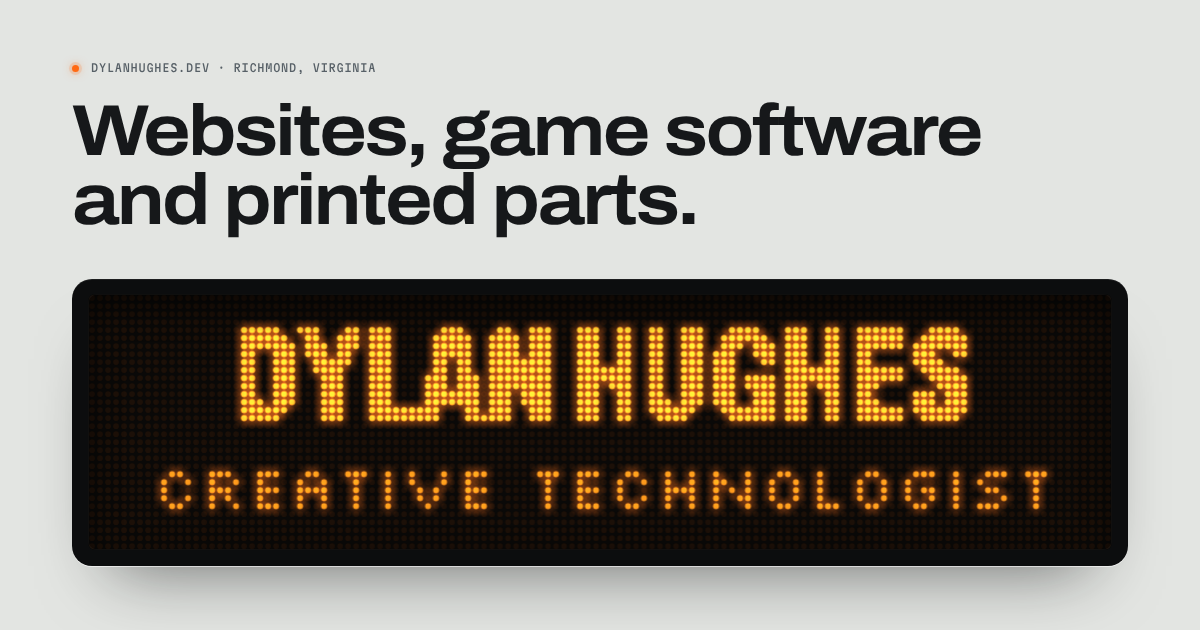
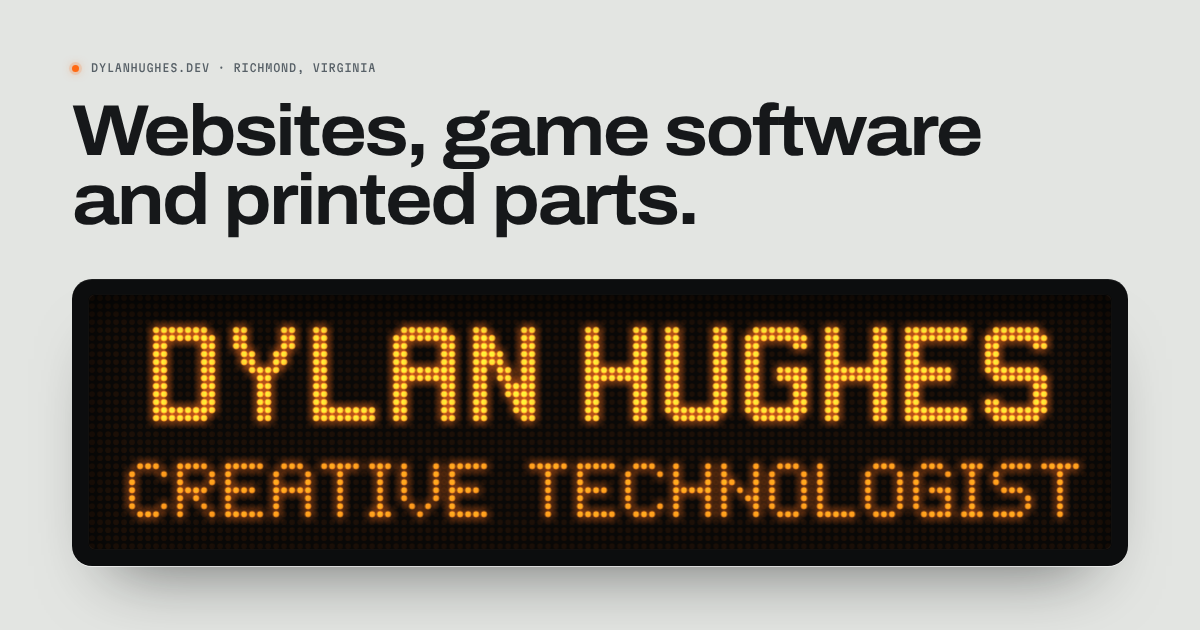
Hand-draw the dot-matrix display's lettering
The display's headline words were Archivo thresholded onto the dot grid,
which left uneven strokes and lumpy curves, and its small text was
Silkscreen. Both are now bitmap fonts drawn on the grid like real pinball
lettering: a 12-dot face with two-dot strokes and a classic 5x7 face,
defined as readable rows in js/dmd-glyphs.js. This removes the baking
tool and the Silkscreen files, and drops the arrow markers beside the
rolling words. Favicon and share image regenerated with the new lettering.

Claude-Session: https://claude.ai/code/session_01YP6uGPMfsV9kKyrg262rqo

Changed region(s): [[0.1233, 0.5127, 0.8942, 0.6937], [0.0925, 0.7238, 0.925, 0.8444]]

diff --git a/js/dmd-glyphs.js b/js/dmd-glyphs.js
@@ -1,2 +1,100 @@
-/* Generated by tools/bake-dmd-glyphs.mjs. Rows are hex bitmaps, left to right. */
-window.DMD_GLYPHS = {"small":{"0":{"w":6,"rows":["00","30","48","48","48","30","00"]},"1":{"w":5,"rows":["00","60","20","20","20","70","00"]},"2":{"w":6,"rows":["00","70","08","30","40","78","00"]},"3":{"w":6,"rows":["00","70","08","30","08","70","00"]},"4":{"w":6,"rows":["00","50","50","78","10","10","00"]},"5":{"w":6,"rows":["00","78","40","70","08","70","00"]},"6":{"w":6,"rows":["00","30","40","70","48","30","00"]},"7":{"w":6,"rows":["00","78","08","10","20","20","00"]},"8":{"w":6,"rows":["00","30","48","30","48","30","00"]},"9":{"w":6,"rows":["00","30","48","38","08","30","00"]}," ":{"w":4,"rows":["0","0","0","0","0","0","0"]},"A":{"w":6,"rows":["00","30","48","78","48","48","00"]},"B":{"w":6,"rows":["00","70","48","78","48","70","00"]},"C":{"w":6,"rows":["00","30","48","40","48","30","00"]},"D":{"w":6,"rows":["00","70","48","48","48","70","00"]},"E":{"w":5,"rows":["00","70","40","70","40","70","00"]},"F":{"w":5,"rows":["00","70","40","70","40","40","00"]},"G":{"w":6,"rows":["00","38","40","58","48","30","00"]},"H":{"w":6,"rows":["00","48","48","78","48","48","00"]},"I":{"w":3,"rows":["0","4","4","4","4","4","0"]},"J":{"w":6,"rows":["00","08","08","08","48","30","00"]},"K":{"w":6,"rows":["00","48","50","60","50","48","00"]},"L":{"w":5,"rows":["00","40","40","40","40","70","00"]},"M":{"w":7,"rows":["00","44","6c","54","44","44","00"]},"N":{"w":7,"rows":["00","44","64","54","4c","44","00"]},"O":{"w":6,"rows":["00","30","48","48","48","30","00"]},"P":{"w":6,"rows":["00","70","48","70","40","40","00"]},"Q":{"w":6,"rows":["00","30","48","48","48","30","08"]},"R":{"w":6,"rows":["00","70","48","70","50","48","00"]},"S":{"w":6,"rows":["00","38","40","30","08","70","00"]},"T":{"w":5,"rows":["00","70","20","20","20","20","00"]},"U":{"w":6,"rows":["00","48","48","48","48","30","00"]},"V":{"w":7,"rows":["00","44","44","28","28","10","00"]},"W":{"w":7,"rows":["00","44","54","54","54","28","00"]},"X":{"w":7,"rows":["00","44","28","10","28","44","00"]},"Y":{"w":7,"rows":["00","44","28","10","10","10","00"]},"Z":{"w":5,"rows":["00","70","10","20","40","70","00"]},".":{"w":3,"rows":["0","0","0","0","0","4","0"]},",":{"w":4,"rows":["0","0","0","0","0","2","4"]},":":{"w":3,"rows":["0","0","4","0","4","0","0"]},";":{"w":4,"rows":["0","0","2","0","2","4","0"]},"-":{"w":5,"rows":["00","00","00","70","00","00","00"]},"!":{"w":3,"rows":["0","4","4","4","0","4","0"]},"?":{"w":6,"rows":["00","70","08","30","00","20","00"]},"'":{"w":3,"rows":["0","4","4","0","0","0","0"]},"&":{"w":6,"rows":["10","38","40","30","40","38","10"]},"/":{"w":5,"rows":["00","10","10","20","40","40","00"]},"(":{"w":4,"rows":["0","2","4","4","4","2","0"]},")":{"w":4,"rows":["0","4","2","2","2","4","0"]},"+":{"w":7,"rows":["00","10","10","7c","10","10","00"]},"#":{"w":7,"rows":["00","28","7c","28","7c","28","00"]}},"big":{"404":{"w":21,"rows":["3070c0","30f8c0","34dcd0","6cdcd0","6dddb0","6dddb0","cdddb0","fddff8","ffdff8","7cddf8","0cf830","0c7830"]},"DYLAN HUGHES":{"w":91,"rows":["f9c6e070ce3999c78e67e3c","fccee0f9ee3999cfce67e7e","feeee0f9ee3999ceee67efe","ceece0f9ee3999dcee660e6","ce7ce0d9fe3999dc6e660f0","ce78e0d9fe3f99dc0fe7e7c","ce38e1ddfe3f99ddefe7e3e","ce38e1ddfe3b99ddeee701e","ce38e1fdde3999dcee660ee","ee38e1fdde399ddcee670ee","fc38ff8dce399f8fee67efe","f838ff8fce398f07ee67e7c"]},"WEBSITES":{"w":63,"rows":["e677e783cefefe78","ef77efe7eefefefc","ef77efefeefefcfc","6f660e7e6e38e0ec","6f660e6f0e38e0e0","6f67efc7ce38fcf8","7fe7efe3ee38fc7c","7fe70e71ee38e01e","7be60e7eee38e0ce","39c70e7eee38e0ce","39c7efefee38fefc","39c7efc7ce38fe78"]},"GAME SOFTWARE":{"w":105,"rows":["383c78e7e0f0f0fbff399e3e3f8","7e3c79e7e1f9f9ffff3b9e3f3f8","ee3e79e7e3f9ddfbfb3bbe3fbf0","c63e7de6039b9dc0e37bbe33b80","c63e7de603c39dc0e37b3633b80","c0767de7e1f38df8e3fb373bbf0","de767de7e0fb8df8e3ff373f3f0","ce777f67007b9df0e3ef773f380","c67f776603bb9dc0e1ef7f33380","e6ff776703bb9dc0e1ef7fb3b80","fee77767e3f9f9c0e1ce63b3bf8","7ae37667e1f0f1c0e1ce63b1bf8"]},"PRINTED PARTS":{"w":94,"rows":["f8f8ee67f7e781f0f1f1fcf0","fcfcee6ff7efe1fcf1fdfdf8","fefeef67e7efe1fcf1fdfdf8","ceceef61c60e71ddf9cc71d8","ceceef61c60e71ddf9cc71c0","ceeeefe1c7ee71ddf9dc71f0","fcfcefe1c7ee71fd99fc70f8","fcfcefe1c70e71f999f8703c","c0cceee1c60e71c3fddc719c","c0ceeee1c70ee1c3fddc719c","c0ceeee1c7efe1c39ddc71f8","c0c6ee61c7efc1c39dce70f0"]},"TILT":{"w":25,"rows":["fe663f8","ffe63f8","7ee63f8","18e60e0","18e60e0","18e60e0","18e60e0","18e60e0","18e60e0","18e70e0","18e7ee0","18e7ee0"]}}};
+/* Bitmap fonts for the dot-matrix display, drawn by hand on the dot grid, the way pinball displays
+   were lettered. "#" is a lit dot. SMALL is a 5 × 7 face; BIG is 12 dots tall with two-dot strokes. */
+window.DMD_FONTS = {
+  small: {
+    height: 7,
+    spacing: 1,
+    glyphs: {
+      ' ': ['...', '...', '...', '...', '...', '...', '...'],
+      A: ['.###.', '#...#', '#...#', '#####', '#...#', '#...#', '#...#'],
+      B: ['####.', '#...#', '#...#', '####.', '#...#', '#...#', '####.'],
+      C: ['.###.', '#...#', '#....', '#....', '#....', '#...#', '.###.'],
+      D: ['####.', '#...#', '#...#', '#...#', '#...#', '#...#', '####.'],
+      E: ['#####', '#....', '#....', '####.', '#....', '#....', '#####'],
+      F: ['#####', '#....', '#....', '####.', '#....', '#....', '#....'],
+      G: ['.###.', '#...#', '#....', '#.###', '#...#', '#...#', '.####'],
+      H: ['#...#', '#...#', '#...#', '#####', '#...#', '#...#', '#...#'],
+      I: ['###', '.#.', '.#.', '.#.', '.#.', '.#.', '###'],
+      J: ['..###', '...#.', '...#.', '...#.', '...#.', '#..#.', '.##..'],
+      K: ['#...#', '#..#.', '#.#..', '##...', '#.#..', '#..#.', '#...#'],
+      L: ['#....', '#....', '#....', '#....', '#....', '#....', '#####'],
+      M: ['#...#', '##.##', '#.#.#', '#.#.#', '#...#', '#...#', '#...#'],
+      N: ['#...#', '#...#', '##..#', '#.#.#', '#..##', '#...#', '#...#'],
+      O: ['.###.', '#...#', '#...#', '#...#', '#...#', '#...#', '.###.'],
+      P: ['####.', '#...#', '#...#', '####.', '#....', '#....', '#....'],
+      Q: ['.###.', '#...#', '#...#', '#...#', '#.#.#', '#..#.', '.##.#'],
+      R: ['####.', '#...#', '#...#', '####.', '#.#..', '#..#.', '#...#'],
+      S: ['.####', '#....', '#....', '.###.', '....#', '....#', '####.'],
+      T: ['#####', '..#..', '..#..', '..#..', '..#..', '..#..', '..#..'],
+      U: ['#...#', '#...#', '#...#', '#...#', '#...#', '#...#', '.###.'],
+      V: ['#...#', '#...#', '#...#', '#...#', '#...#', '.#.#.', '..#..'],
+      W: ['#...#', '#...#', '#...#', '#.#.#', '#.#.#', '#.#.#', '.#.#.'],
+      X: ['#...#', '#...#', '.#.#.', '..#..', '.#.#.', '#...#', '#...#'],
+      Y: ['#...#', '#...#', '.#.#.', '..#..', '..#..', '..#..', '..#..'],
+      Z: ['#####', '....#', '...#.', '..#..', '.#...', '#....', '#####'],
+      0: ['.###.', '#...#', '#..##', '#.#.#', '##..#', '#...#', '.###.'],
+      1: ['..#..', '.##..', '..#..', '..#..', '..#..', '..#..', '.###.'],
+      2: ['.###.', '#...#', '....#', '...#.', '..#..', '.#...', '#####'],
+      3: ['#####', '...#.', '..#..', '...#.', '....#', '#...#', '.###.'],
+      4: ['...#.', '..##.', '.#.#.', '#..#.', '#####', '...#.', '...#.'],
+      5: ['#####', '#....', '####.', '....#', '....#', '#...#', '.###.'],
+      6: ['..##.', '.#...', '#....', '####.', '#...#', '#...#', '.###.'],
+      7: ['#####', '....#', '...#.', '..#..', '.#...', '.#...', '.#...'],
+      8: ['.###.', '#...#', '#...#', '.###.', '#...#', '#...#', '.###.'],
+      9: ['.###.', '#...#', '#...#', '.####', '....#', '...#.', '.##..'],
+      '.': ['.', '.', '.', '.', '.', '.', '#'],
+      ',': ['..', '..', '..', '..', '..', '.#', '#.'],
+      ':': ['.', '.', '#', '.', '.', '#', '.'],
+      '-': ['....', '....', '....', '####', '....', '....', '....'],
+      '!': ['#', '#', '#', '#', '#', '.', '#'],
+      '?': ['.###.', '#...#', '....#', '...#.', '..#..', '.....', '..#..'],
+      "'": ['#', '#', '.', '.', '.', '.', '.'],
+      '/': ['....#', '...#.', '...#.', '..#..', '.#...', '.#...', '#....'],
+      '+': ['.....', '..#..', '..#..', '#####', '..#..', '..#..', '.....'],
+      '*': ['...', '...', '.#.', '###', '.#.', '...', '...'],
+    },
+  },
+  big: {
+    height: 12,
+    spacing: 2,
+    glyphs: {
+      ' ': ['..', '..', '..', '..', '..', '..', '..', '..', '..', '..', '..', '..'],
+      A: ['.######.', '########', '##....##', '##....##', '##....##', '########', '########', '##....##', '##....##', '##....##', '##....##', '##....##'],
+      B: ['#######.', '########', '##....##', '##....##', '##....##', '#######.', '#######.', '##....##', '##....##', '##....##', '########', '#######.'],
+      C: ['.######.', '########', '##....##', '##......', '##......', '##......', '##......', '##......', '##......', '##....##', '########', '.######.'],
+      D: ['#######.', '########', '##....##', '##....##', '##....##', '##....##', '##....##', '##....##', '##....##', '##....##', '########', '#######.'],
+      E: ['########', '########', '##......', '##......', '##......', '######..', '######..', '##......', '##......', '##......', '########', '########'],
+      F: ['########', '########', '##......', '##......', '##......', '######..', '######..', '##......', '##......', '##......', '##......', '##......'],
+      G: ['.######.', '########', '##....##', '##......', '##......', '##..####', '##..####', '##....##', '##....##', '##....##', '########', '.######.'],
+      H: ['##....##', '##....##', '##....##', '##....##', '##....##', '########', '########', '##....##', '##....##', '##....##', '##....##', '##....##'],
+      I: ['##', '##', '##', '##', '##', '##', '##', '##', '##', '##', '##', '##'],
+      J: ['......##', '......##', '......##', '......##', '......##', '......##', '......##', '......##', '##....##', '##....##', '########', '.######.'],
+      K: ['##....##', '##...###', '##..###.', '##.###..', '#####...', '####....', '####....', '#####...', '##.###..', '##..###.', '##...###', '##....##'],
+      L: ['##......', '##......', '##......', '##......', '##......', '##......', '##......', '##......', '##......', '##......', '########', '########'],
+      M: ['##....##', '###..###', '########', '##.##.##', '##.##.##', '##....##', '##....##', '##....##', '##....##', '##....##', '##....##', '##....##'],
+      N: ['##....##', '###...##', '###...##', '####..##', '####..##', '##.##.##', '##.##.##', '##..####', '##..####', '##...###', '##...###', '##....##'],
+      O: ['.######.', '########', '##....##', '##....##', '##....##', '##....##', '##....##', '##....##', '##....##', '##....##', '########', '.######.'],
+      P: ['#######.', '########', '##....##', '##....##', '##....##', '########', '#######.', '##......', '##......', '##......', '##......', '##......'],
+      Q: ['.######.', '########', '##....##', '##....##', '##....##', '##....##', '##....##', '##.##.##', '##..####', '##...###', '########', '.#######'],
+      R: ['#######.', '########', '##....##', '##....##', '##....##', '########', '#######.', '##.###..', '##..###.', '##...###', '##....##', '##....##'],
+      S: ['.######.', '########', '##....##', '##......', '##......', '#######.', '.#######', '......##', '......##', '##....##', '########', '.######.'],
+      T: ['########', '########', '...##...', '...##...', '...##...', '...##...', '...##...', '...##...', '...##...', '...##...', '...##...', '...##...'],
+      U: ['##....##', '##....##', '##....##', '##....##', '##....##', '##....##', '##....##', '##....##', '##....##', '##....##', '########', '.######.'],
+      V: ['##....##', '##....##', '##....##', '##....##', '##....##', '##....##', '##....##', '.##..##.', '.##..##.', '..####..', '..####..', '...##...'],
+      W: ['##....##', '##....##', '##....##', '##....##', '##....##', '##....##', '##....##', '##.##.##', '##.##.##', '########', '###..###', '##....##'],
+      X: ['##....##', '##....##', '.##..##.', '.##..##.', '..####..', '...##...', '...##...', '..####..', '.##..##.', '.##..##.', '##....##', '##....##'],
+      Y: ['##....##', '##....##', '##....##', '.##..##.', '.##..##.', '..####..', '...##...', '...##...', '...##...', '...##...', '...##...', '...##...'],
+      Z: ['########', '########', '......##', '.....##.', '....##..', '...##...', '..##....', '.##.....', '##......', '##......', '########', '########'],
+      0: ['.######.', '########', '##....##', '##...###', '##..####', '##.##.##', '##.##.##', '####..##', '###...##', '##....##', '########', '.######.'],
+      1: ['..##', '.###', '####', '..##', '..##', '..##', '..##', '..##', '..##', '..##', '..##', '..##'],
+      2: ['.######.', '########', '##....##', '......##', '......##', '.#######', '#######.', '##......', '##......', '##......', '########', '########'],
+      3: ['.######.', '########', '##....##', '......##', '......##', '..#####.', '..#####.', '......##', '......##', '##....##', '########', '.######.'],
+      4: ['##....##', '##....##', '##....##', '##....##', '##....##', '########', '########', '......##', '......##', '......##', '......##', '......##'],
+      5: ['########', '########', '##......', '##......', '##......', '#######.', '########', '......##', '......##', '##....##', '########', '.######.'],
+      6: ['.######.', '########', '##....##', '##......', '##......', '#######.', '########', '##....##', '##....##', '##....##', '########', '.######.'],
+      7: ['########', '########', '......##', '......##', '.....##.', '....##..', '...##...', '...##...', '...##...', '...##...', '...##...', '...##...'],
+      8: ['.######.', '########', '##....##', '##....##', '##....##', '.######.', '.######.', '##....##', '##....##', '##....##', '########', '.######.'],
+      9: ['.######.', '########', '##....##', '##....##', '##....##', '########', '.#######', '......##', '......##', '##....##', '########', '.######.'],
+    },
+  },
+};

diff --git a/js/dmd.js b/js/dmd.js
@@ -3,30 +3,27 @@
 (() => {
   'use strict';
   const COLS = 128, ROWS = 32, N = COLS * ROWS;
-  const G = window.DMD_GLYPHS;
+  const FONTS = window.DMD_FONTS;
 
-  // Bitmaps ------------------------------------------------------------------
-  const decodeRows = (rows, w) => rows.map(hex => {
-    const bits = [...hex].map(c => parseInt(c, 16).toString(2).padStart(4, '0')).join('');
-    return Uint8Array.from(bits.slice(0, w), b => (b === '1' ? 1 : 0));
-  });
-  const bigCache = {};
-  const big = word => bigCache[word] || (bigCache[word] = { w: G.big[word].w, h: G.big[word].rows.length, px: decodeRows(G.big[word].rows, G.big[word].w) });
-  const smallGlyph = {};
-  for (const ch in G.small) smallGlyph[ch] = { w: G.small[ch].w, px: decodeRows(G.small[ch].rows, G.small[ch].w) };
-  const smallCache = {};
-  function small(text) {
-    if (smallCache[text]) return smallCache[text];
-    const glyphs = [...text.toUpperCase()].map(ch => smallGlyph[ch] || smallGlyph[' ']);
-    const w = Math.max(1, glyphs.reduce((sum, g) => sum + g.w, 0) - 1);
-    const px = Array.from({ length: 7 }, () => new Uint8Array(w));
+  // Text ------------------------------------------------------------------------
+  // Composes a string from a hand-drawn font into a bitmap: { w, h, px: rows of 0/1 }.
+  const textCache = {};
+  function text(str, fontName) {
+    const key = fontName + '|' + str;
+    if (textCache[key]) return textCache[key];
+    const font = FONTS[fontName];
+    const glyphs = [...str.toUpperCase()].map(ch => font.glyphs[ch] || font.glyphs[' ']);
+    const w = Math.max(1, glyphs.reduce((sum, g) => sum + g[0].length + font.spacing, 0) - font.spacing);
+    const px = Array.from({ length: font.height }, () => new Uint8Array(w));
     let x = 0;
     for (const g of glyphs) {
-      for (let y = 0; y < 7; y++) for (let i = 0; i < g.w && x + i < w; i++) if (g.px[y][i]) px[y][x + i] = 1;
-      x += g.w;
+      g.forEach((row, y) => { for (let i = 0; i < row.length; i++) if (row[i] === '#') px[y][x + i] = 1; });
+      x += g[0].length + font.spacing;
     }
-    return (smallCache[text] = { w, h: 7, px });
+    return (textCache[key] = { w, h: font.height, px });
   }
+  const big = str => text(str, 'big');
+  const small = str => text(str, 'small');
 
   // Drawing into a buffer -------------------------------------------------------
   const set = (buf, x, y, v) => {
@@ -87,7 +84,7 @@
         if (text) stamp(buf, small(text), center(role), 21, 0.78);
         if (typed > 0 && typed < 21 && Math.floor(t * 8) % 2) {
           const cx = center(role) + small(text).w + 2;
-          for (let y = 22; y < 27; y++) set(buf, cx, y, 0.6);
+          for (let y = 21; y < 28; y++) set(buf, cx, y, 0.6);
         }
       },
     },
@@ -109,9 +106,6 @@
         const clip = { top: 12, bottom: 28 };
         stamp(buf, big(words[step]), center(big(words[step])), 14 - offset, 1, clip);
         if (step + 1 < words.length) stamp(buf, big(words[step + 1]), center(big(words[step + 1])), 14 + pitch - offset, 1, clip);
-        const mark = 1 + Math.floor(t * 4) % 2 * 0.2;
-        set(buf, 3, 19, 0.5 * mark); set(buf, 4, 20, 0.5 * mark); set(buf, 3, 21, 0.5 * mark);
-        set(buf, 124, 19, 0.5 * mark); set(buf, 123, 20, 0.5 * mark); set(buf, 124, 21, 0.5 * mark);
       },
     },
 
@@ -155,7 +149,7 @@
         stamp(buf, small('SCORE'), 4, 2, 0.6);
         stamp(buf, small(String(state.score)), 4, 11, 1);
         stamp(buf, small('BALL 1'), 92, 2, 0.6);
-        if (Math.floor(t * 2.2) % 2 === 0) { stamp(buf, small('PRESS'), 95, 14, 0.9); stamp(buf, small('START'), 95, 22, 0.9); }
+        if (Math.floor(t * 2.2) % 2 === 0) { stamp(buf, small('PRESS'), 95, 13, 0.9); stamp(buf, small('START'), 95, 22, 0.9); }
       },
     },
 
@@ -164,7 +158,7 @@
       duration: 0,
       still: 0,
       reset(state) { state.text = this.text(); },
-      text: () => 'BASED IN RICHMOND, VIRGINIA - LOCAL TIME ' + richmondTime() + ' - WEBSITES, GAME SOFTWARE AND PRINTED PARTS',
+      text: () => 'BASED IN RICHMOND, VIRGINIA  *  LOCAL TIME ' + richmondTime() + '  *  WEBSITES, GAME SOFTWARE AND PRINTED PARTS',
       draw(buf, t, state, reduced) {
         const bmp = small(state.text);
         // Real displays scroll a whole dot per refresh, so the marquee steps instead of gliding.
@@ -189,7 +183,7 @@
         const word = big('TILT');
         if (on) stamp(buf, word, center(word), 4, 1);
         const msg = small('PAGE NOT FOUND');
-        stamp(buf, msg, center(msg), 22, 0.7);
+        stamp(buf, msg, center(msg), 21, 0.7);
       },
     },
   };

diff --git a/js/site.js b/js/site.js
@@ -100,7 +100,7 @@
   // The dot-matrix display.
   let dmd = null;
   const canvas = $('[data-dmd]');
-  if (canvas && window.DMD && window.DMD_GLYPHS) {
+  if (canvas && window.DMD && window.DMD_FONTS) {
     const label = $('[data-dmd-label]');
     const count = $('[data-dmd-count]');
     const pause = $('[data-dmd-pause]');

diff --git a/README.md b/README.md
@@ -10,10 +10,9 @@ Portfolio for Dylan Hughes, creative technologist and developer in Richmond, Vir
 - `404.html`: not-found page, served by GitHub Pages for any missing URL
 - `css/site.css`: the whole design system (tokens at the top)
 - `js/site.js`: navigation, clock, copy-email, comparison slider and all scroll motion
-- `js/dmd.js` and `js/dmd-glyphs.js`: the 128 × 32 pinball dot-matrix display and its baked fonts
+- `js/dmd.js` and `js/dmd-glyphs.js`: the 128 × 32 pinball dot-matrix display and its hand-drawn bitmap fonts
 - `js/vendor/`: GSAP 3.15 with ScrollTrigger and SplitText, and Lenis 1.3 for inertial scrolling
-- `fonts/`: Archivo (headlines), Instrument Sans (body), Martian Mono (labels), Silkscreen (display font source)
-- `tools/bake-dmd-glyphs.mjs`: regenerates `js/dmd-glyphs.js` when the display needs new words
+- `fonts/`: Archivo (headlines), Instrument Sans (body), Martian Mono (labels)
 - `assets/`: résumé PDF, favicon, social share image (`og.png`) and photographs
 - `CNAME`, `robots.txt` and `sitemap.xml`: domain and search-engine configuration
 
@@ -46,7 +45,7 @@ python3 -m http.server 8765 --bind 127.0.0.1
 
 ## Display text
 
-The display's large words are baked from Archivo so they look the same in every browser. To add one, add it to `BIG` in `tools/bake-dmd-glyphs.mjs`, serve the site as above and run `node tools/bake-dmd-glyphs.mjs http://127.0.0.1:8765` (needs Playwright). Small text is composed from the baked Silkscreen glyphs at runtime.
+The display uses two bitmap fonts drawn dot by dot in `js/dmd-glyphs.js`, the way pinball displays were lettered: a 5 × 7 face for small text and a 12-dot face with two-dot strokes for headline words. Each glyph is a list of rows where `#` is a lit dot. Any text made of the characters defined there can go straight into a scene in `js/dmd.js`; add a glyph to the font first if a scene needs a new character.
 
 ## Résumé updates
 
